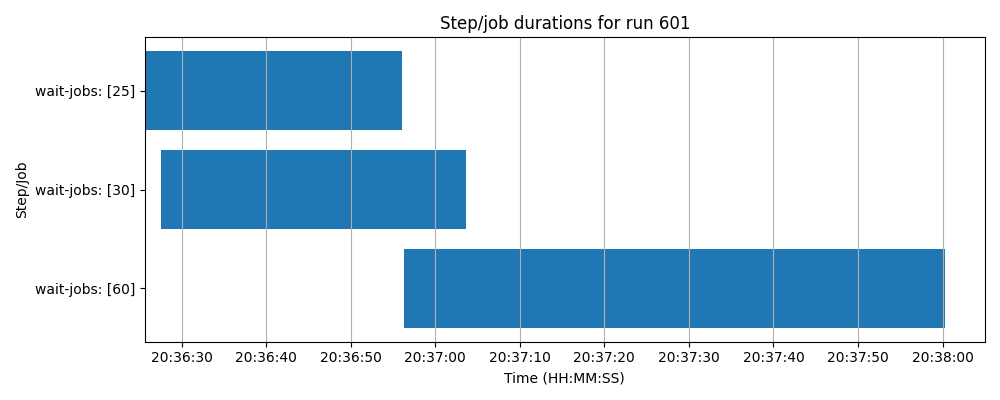
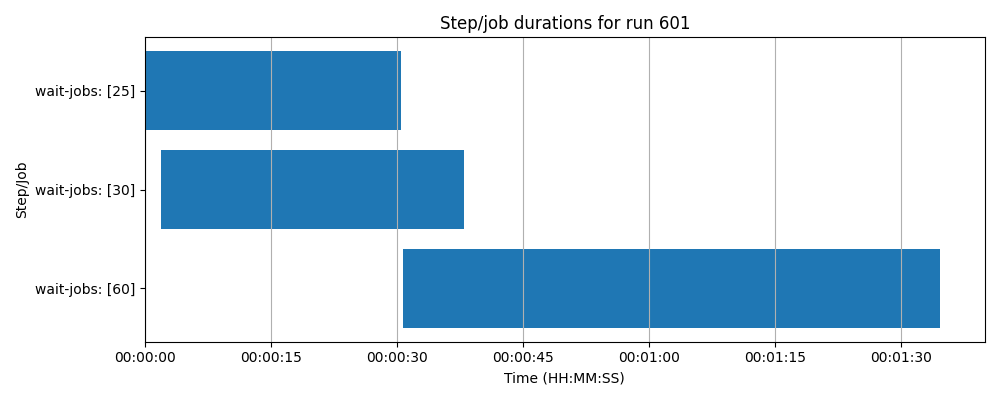
feat(gitlab): create clean charts for scheduling

diff --git a/experiments/commons.py b/experiments/commons.py
@@ -70,39 +70,77 @@ class JobDuration:
         self.duration = end - start
 
 
-def plot_job_gantt(jobs: list[JobDuration], title: str, file_path: object | None = None):
+def plot_job_gantt(jobs, title, file_path=None):
     if not jobs:
         return
 
+    # Sort jobs (latest start first)
     steps_sorted = sorted(jobs, reverse=True, key=lambda x: x.start)
-    step_names = [step.label for step in steps_sorted]
-    start_times = [step.start for step in steps_sorted]
-    end_times = [step.end for step in steps_sorted]
-    durations_days = [(et - st).total_seconds() / 86400 for st, et in zip(start_times, end_times)]
+
+    step_names = [s.label for s in steps_sorted]
+    start_times = [s.start for s in steps_sorted]
+    end_times = [s.end for s in steps_sorted]
+
+    # Normalize start times so axis begins at 0
+    t0 = min(start_times)
+    start_offsets = [(s - t0).total_seconds() for s in start_times]
+    durations = [(e - s).total_seconds() for s, e in zip(start_times, end_times)]
 
     fig, ax = plt.subplots(figsize=(10, max(4, len(steps_sorted))))
     yticks = list(range(len(steps_sorted)))
 
+    # Convert seconds → days for matplotlib
+    start_offsets_days = [so / 86400 for so in start_offsets]
+    durations_days = [d / 86400 for d in durations]
+
+    # Draw bars
     ax.barh(
         yticks,
         durations_days,
-        left=mdates.date2num(start_times),
+        left=start_offsets_days,
         height=0.8,
         align='center'
     )
 
     ax.set_yticks(yticks)
     ax.set_yticklabels(step_names)
-    ax.set_xlabel('Time (HH:MM:SS)')
-    ax.set_ylabel('Step/Job')
+    ax.set_xlabel("Time (HH:MM:SS)")
+    ax.set_ylabel("Step/Job")
     ax.set_title(title)
-    ax.xaxis_date()
-    ax.xaxis.set_major_formatter(mdates.DateFormatter('%H:%M:%S'))
-    ax.grid(axis='x')
+
+    # Fixed axis: 100 seconds (1:40)
+    total_span_seconds = 100
+    total_span_days = total_span_seconds / 86400
+
+    # Tick every 15 seconds
+    tick_interval_seconds = 15
+    tick_interval_days = tick_interval_seconds / 86400
+
+    # Apply axis limits
+    ax.set_xlim(0, total_span_days)
+
+    # Generate ticks
+    ticks = []
+    t = 0
+    while t <= total_span_days + 1e-9:
+        ticks.append(t)
+        t += tick_interval_days
+    ax.set_xticks(ticks)
+
+    # Formatter for HH:MM:SS
+    def format_seconds(x, pos):
+        seconds = int(x * 86400)
+        h = seconds // 3600
+        m = (seconds % 3600) // 60
+        s = seconds % 60
+        return f"{h:02}:{m:02}:{s:02}"
+
+    ax.xaxis.set_major_formatter(matplotlib.ticker.FuncFormatter(format_seconds))
+
+    ax.grid(axis="x")
 
     plt.tight_layout()
     if file_path:
         plt.savefig(file_path)
     plt.close(fig)
-    plt.close('all')
-
+    plt.close("all")
